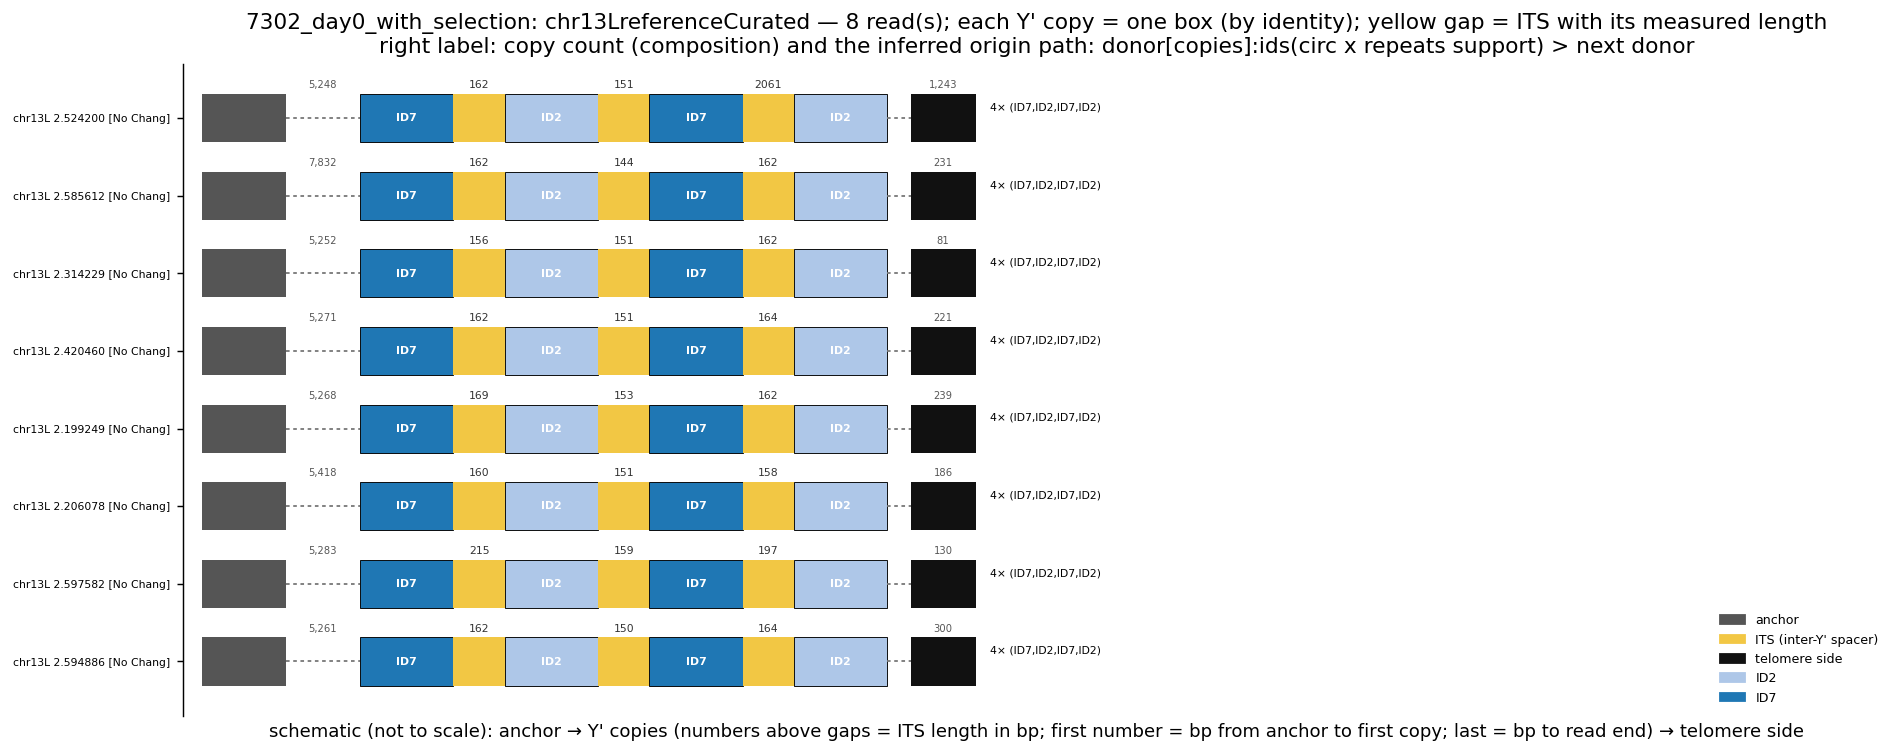
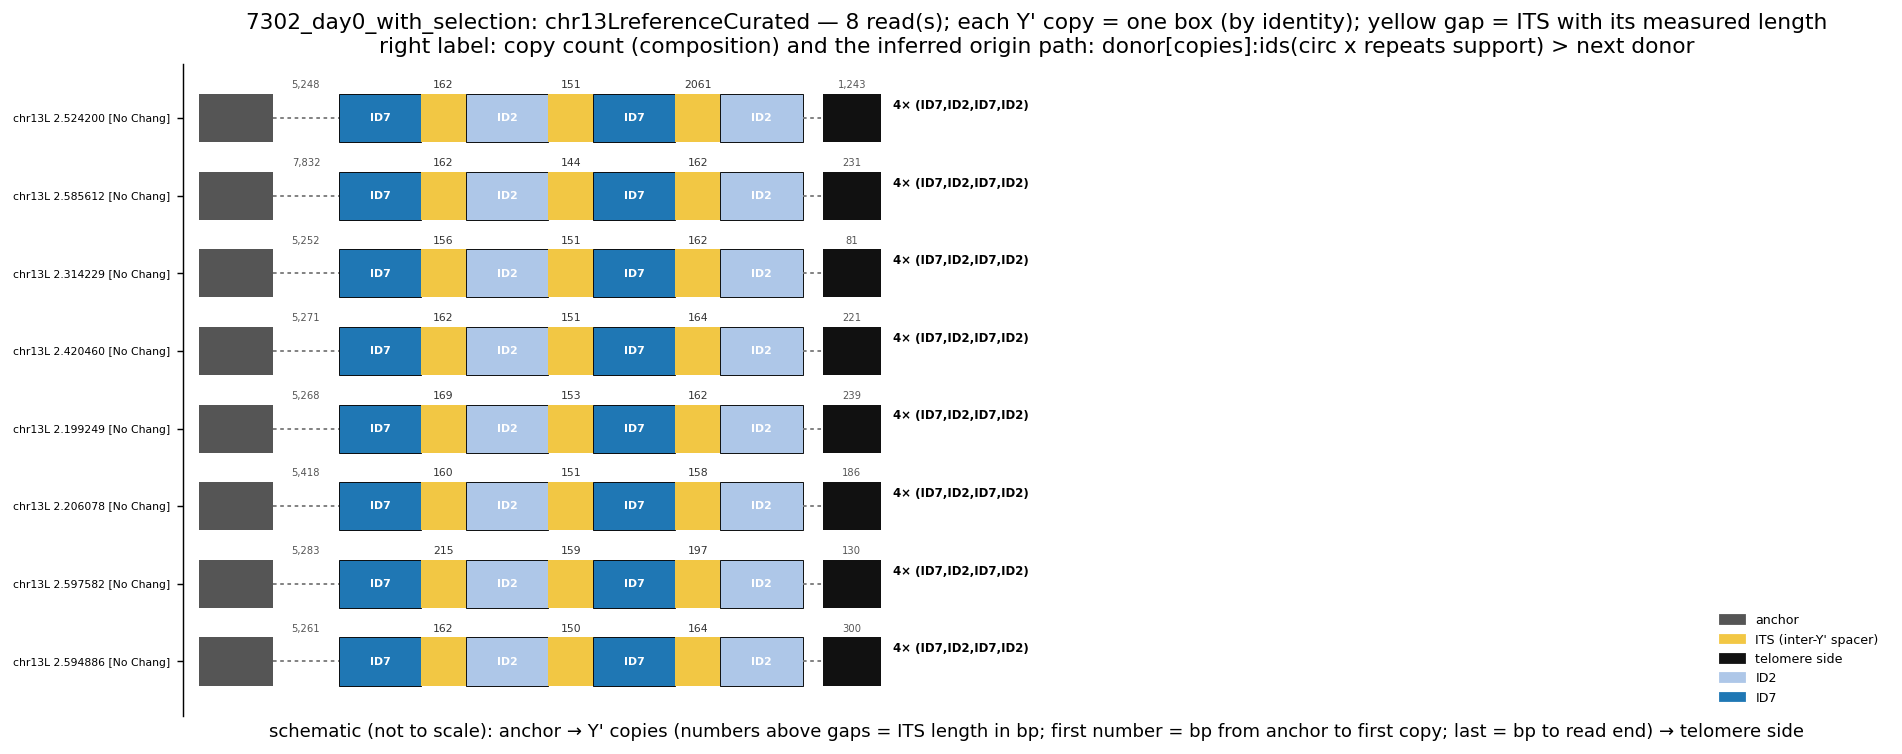
plot_yprime_copies schematic: bold, larger path label

Changed region(s): [[0.1241, 0.0915, 0.5894, 0.9151]]

diff --git a/_pipeline/scripts/plot_yprime_copies.py b/_pipeline/scripts/plot_yprime_copies.py
@@ -93,13 +93,13 @@ for f in sorted(glob.glob(f"{feat_dir}/{base}_chr*_features.tsv")):
             ax.barh(y, TW, left=x, height=0.62, color=TELO_COLOR, edgecolor="none")
             ax.text(x+TW/2, y+0.36, f"{tail:,}", ha="center", va="bottom", fontsize=5.5, color="#555555"); x+=TW
             ncop=len(r["copies"]); ids=[c[0] for c in r["copies"]]
-            ax.text(x+0.15, y+0.14, f"{ncop}× ({rle_str(ids)})", va="center", fontsize=6)
+            ax.text(x+0.15, y+0.16, f"{ncop}× ({rle_str(ids)})", va="center", fontsize=6.5, fontweight="bold")
             if r["path"]:
                 path=r["path"] if len(r["path"])<=150 else r["path"][:147]+"..."
-                ax.text(x+0.15, y-0.2, f"gained from: {path}", va="center", fontsize=5.2, color="#333333")
+                ax.text(x+0.15, y-0.2, f"gained from: {path}", va="center", fontsize=6.5, fontweight="bold", color="#222222")
             yt.append(y); ytl.append(f'{r["ce"]} {r["rid"][-8:]} [{r["status"][:8]}]')
         ax.set_yticks(yt); ax.set_yticklabels(ytl, fontsize=6)
-        ax.set_ylim(-0.7, n-0.3); ax.set_xlim(-0.2, maxx+9.5); ax.set_xticks([])
+        ax.set_ylim(-0.7, n-0.3); ax.set_xlim(-0.2, maxx+12); ax.set_xticks([])
         for sp in ("top","right","bottom"): ax.spines[sp].set_visible(False)
         ax.set_xlabel("schematic (not to scale): anchor → Y' copies (numbers above gaps = ITS length in bp; first number = bp from anchor to first copy; last = bp to read end) → telomere side")
         ax.set_title(f"{base}: {end} — {n} read(s); each Y' copy = one box (by identity); yellow gap = ITS with its measured length\n"
